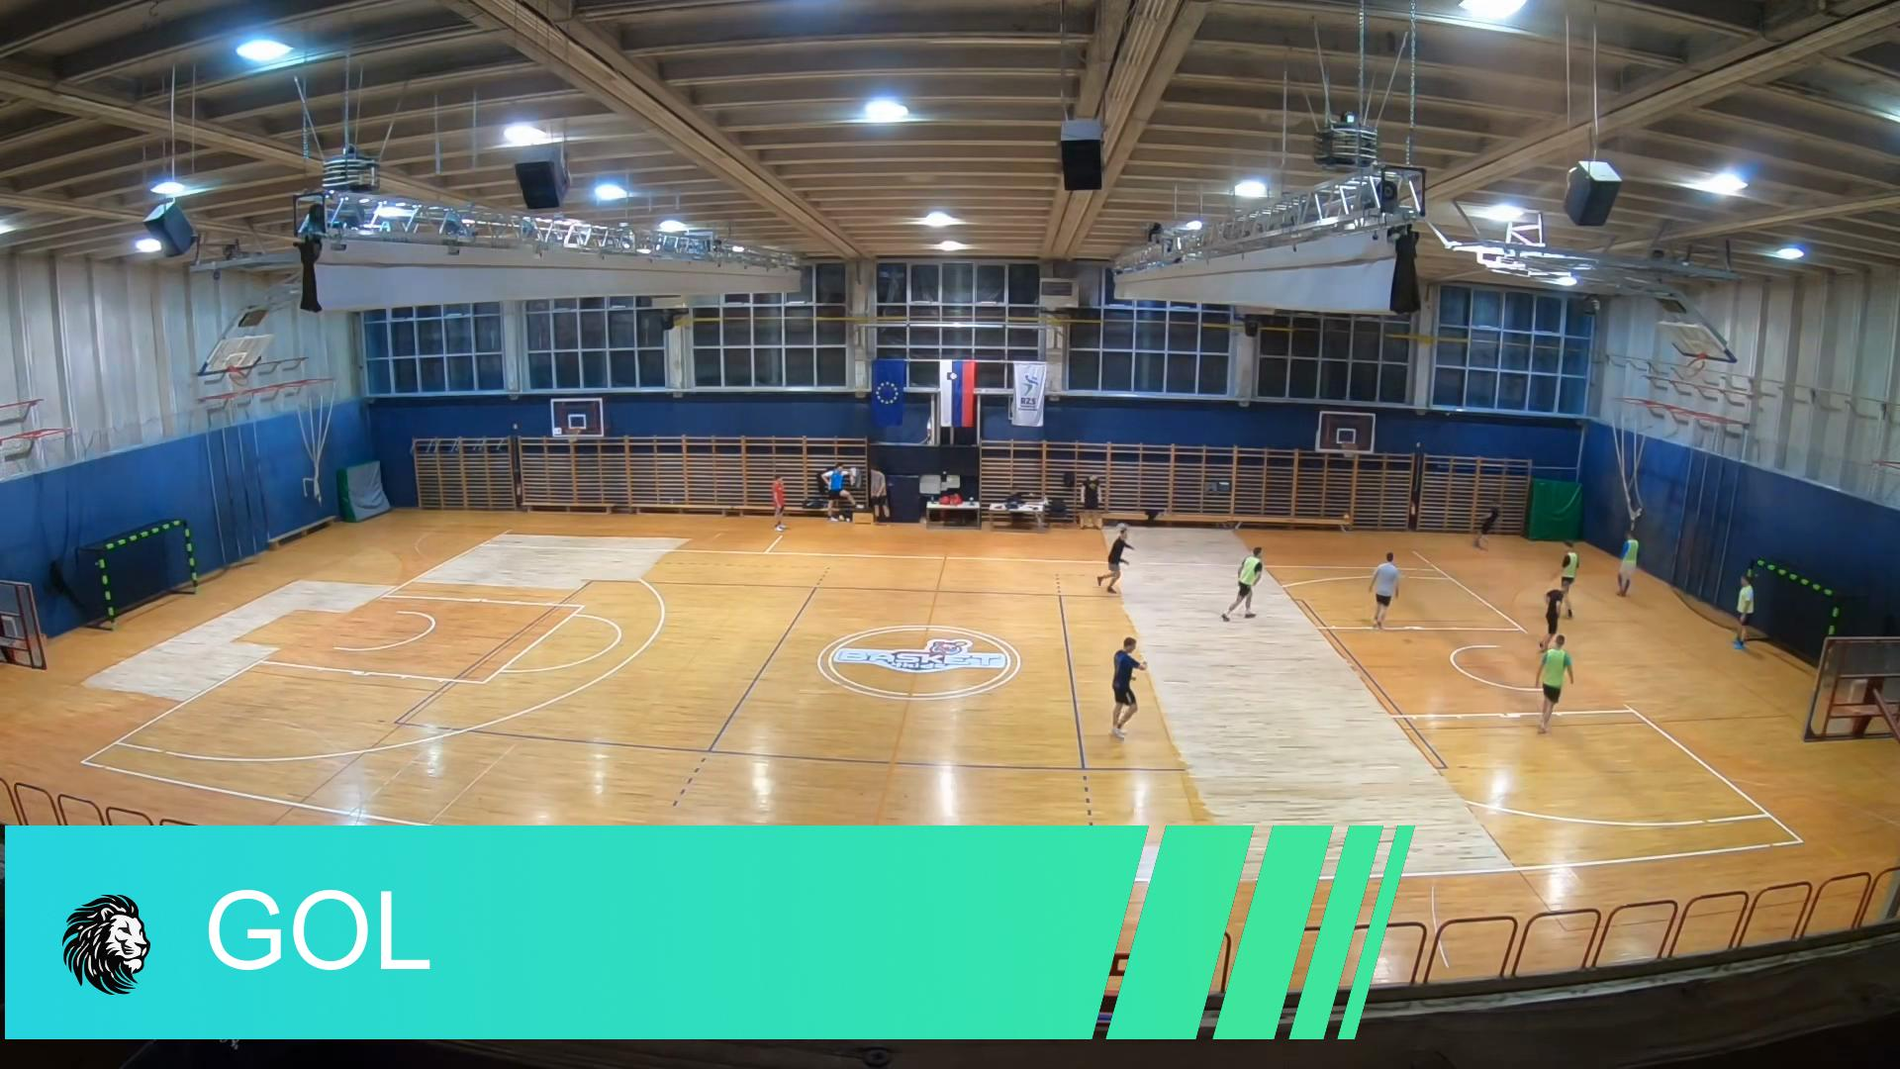
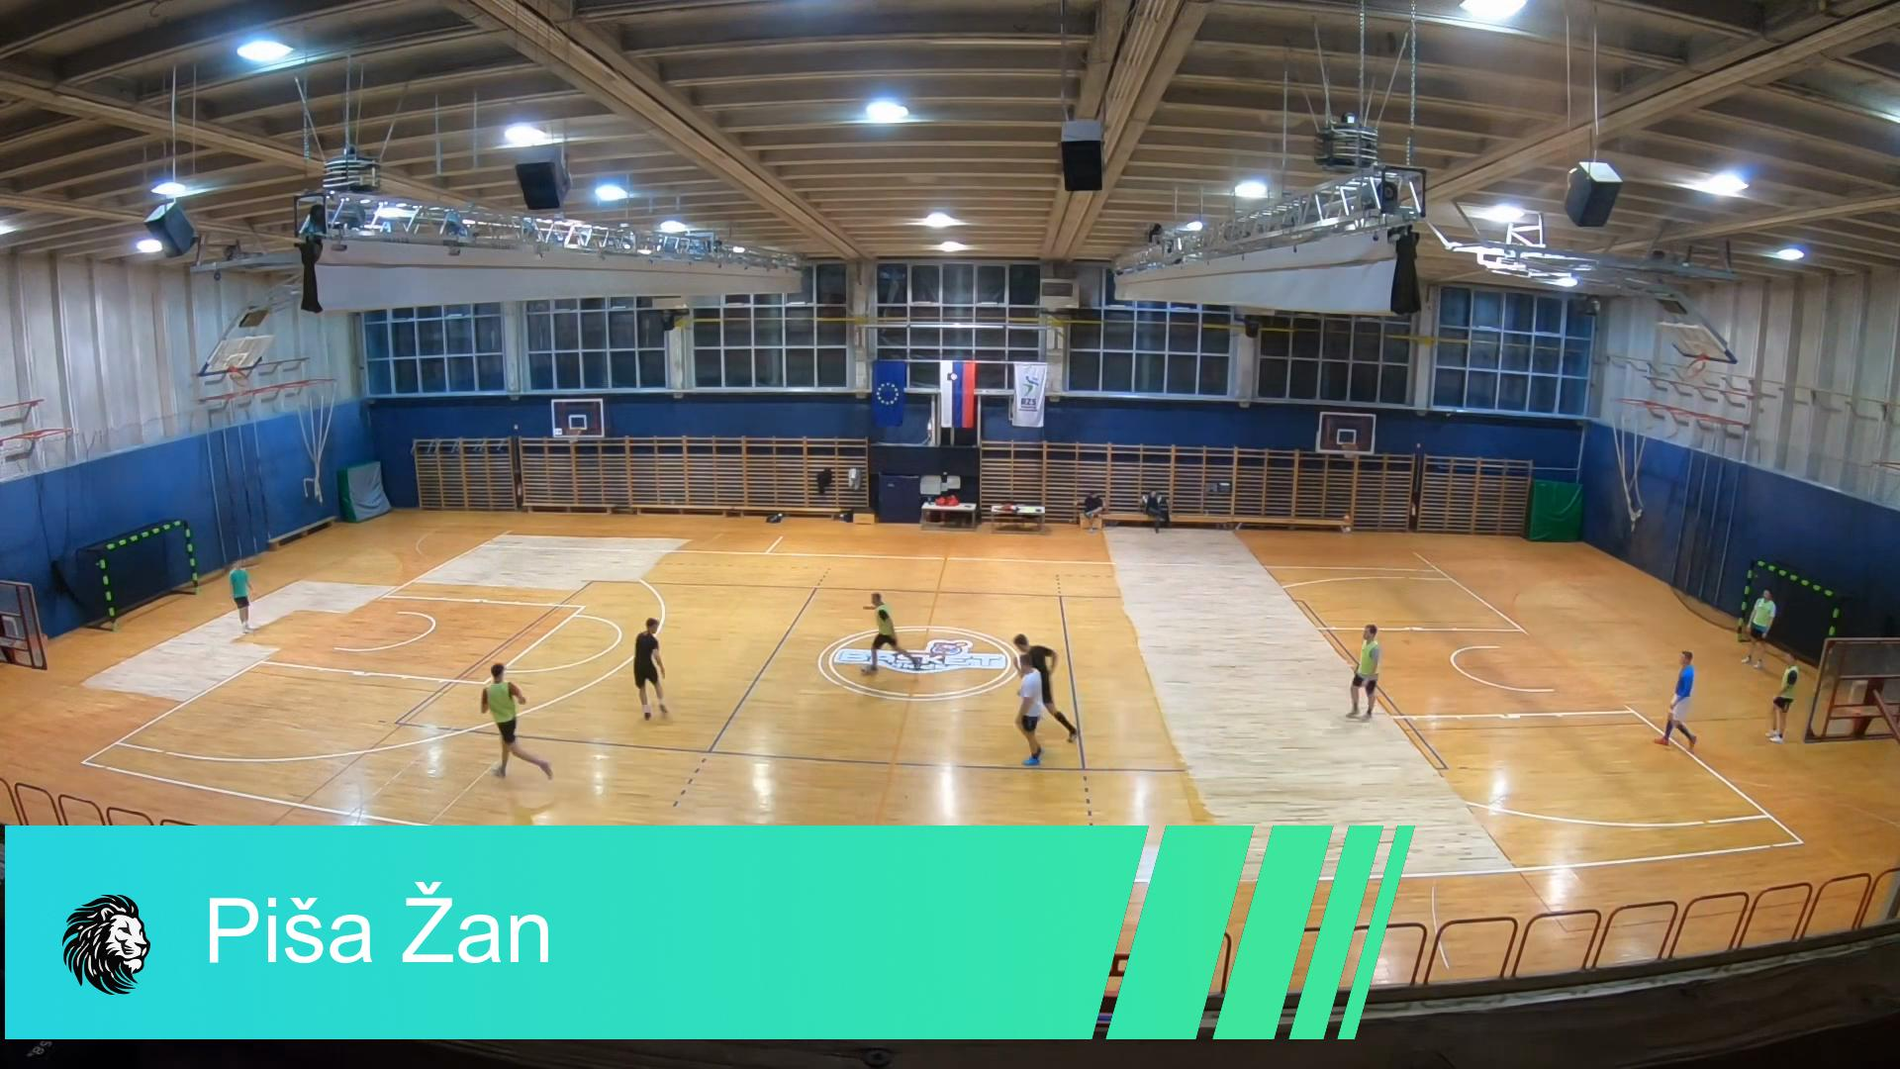
added voice over commentary, background music

diff --git a/main.py b/main.py
@@ -1,19 +1,22 @@
 from moviepy.editor import VideoFileClip, concatenate_videoclips, CompositeVideoClip,concatenate,VideoClip
-from moviepy.editor import TextClip, CompositeVideoClip, ColorClip,ImageClip
+from moviepy.editor import TextClip, CompositeVideoClip, ColorClip,ImageClip,AudioFileClip,CompositeAudioClip
 from PIL import Image
 # Function to create a crossfade transition
-from moviepy.editor import ColorClip, TextClip, CompositeVideoClip
+from moviepy.editor import ColorClip, TextClip, CompositeVideoClip,concatenate_audioclips
 import numpy as np
+from lib.openai import tts
+from moviepy.audio.fx.all import volumex
 
-def wipe_effect(get_frame, t):
-    """ Generates a frame for a wipe effect mask """
+def wipe_effect(get_frame, t, transition_duration):
+    """ Generates a frame for a wipe effect mask using NumPy for efficiency """
     frame = get_frame(t)
-    frame_width, frame_height = frame.shape[1], frame.shape[0]
-    wipe_width = int(frame_width * t / 10)  # Adjust the 10 for speed
-    mask = np.zeros((frame_height, frame_width))
+    frame_width = frame.shape[1]
+    wipe_width = int(frame_width * (t / transition_duration))
+    # Use numpy to create the mask efficiently
+    mask = np.zeros((frame.shape[0], frame.shape[1]))
     mask[:, :wipe_width] = 1
     return mask
-
+    
 def add_premier_league_style_banner(clip, text):
     # Banner settings
     banner_duration = 6
@@ -29,7 +32,7 @@ def add_premier_league_style_banner(clip, text):
     banner_image = ImageClip(banner_image_path, duration=banner_clip_duration)
 
     # Create text clip
-    txt_clip = TextClip(text, fontsize=110, color='white', font='Montserrat-Regular')
+    txt_clip = TextClip(text, fontsize=90, color='white', font='Montserrat-Regular')
     
     # Calculate vertical position for the text
     vertical_center = (banner_height - txt_clip.h) / 2
@@ -66,7 +69,7 @@ def add_premier_league_style_banner(clip, text):
     # Set the duration for the final clip
     return final_clip.set_duration(clip.duration)
 
-def mehe(highlights):
+def make_highlights_reel(highlights):
     file_name = input("Finished highlights video name?\n")
     source_file_name =  "source-video.mp4" #input("Source file name") # 
     # Load your video
@@ -83,26 +86,44 @@ def mehe(highlights):
     # List to hold all the clips
     clips = []
 
-    for highlight in highlights:
+    for index, highlight in enumerate(highlights):
+        text_commentary = highlight["commentary"]
         timestamp = highlight['timestamp']
         name = highlight["name"]
+
+        audio_file_name = f"highlight_{index}"
+        tts(text_commentary, audio_file_name)  # Assuming
+        commentary_audio = AudioFileClip(f"highlights/commentary/{audio_file_name}.mp3")
         start = max(0, timestamp - duration_before)
         end = min(timestamp + duration_after, video.duration)
         clip = video.subclip(start, end)
         overlay_text = name  # Customize your text
         clip_with_banner = add_premier_league_style_banner(clip, overlay_text)
 
-        clips.append(clip_with_banner)
+        # Combine the video clip with the audio commentary
+        clip_with_audio = clip_with_banner.set_audio(commentary_audio)
+        clips.append(clip_with_audio)
     # Adding transitions between clips
     print(f"There are total of {len(clips)} clips")
 
     custom_padding = 2
     final_clips = [clips[0]]
-
-    # Loop through the remaining clips, adding each with a crossfade
     for clip in clips[1:]:
-        final_clips.append(clip.crossfadein(custom_padding))
+        final_clips.append(clip.crossfadein(3))
     final_video = concatenate_videoclips(final_clips, padding=-custom_padding, method="chain")
+
+    final_video_duration = final_video.duration
+
+    background_audio = AudioFileClip("assets/stadion-sound.mp3")
+    loop_count = int(final_video_duration / background_audio.duration) + 1
+    
+    background_audio = background_audio.fx(volumex, 0.15)
+    
+    extended_background_audio = concatenate_audioclips([background_audio] * loop_count)
+    extended_background_audio = extended_background_audio.set_duration(final_video_duration)
+
+    final_audio = CompositeAudioClip([final_video.audio, extended_background_audio])
+    final_video = final_video.set_audio(final_audio)
 
     # Write the result to a file
     final_video.write_videofile(
@@ -113,47 +134,51 @@ def mehe(highlights):
                     '-acodec', 'aac', '-b:a', '128k']
     )
 
-
 timestamps = [
-    {'timestamp': 318, 'name': 'Tekma I'},
-    {'timestamp': 612, 'name': 'PRILOŽNOST'},
-    {'timestamp': 775, 'name': 'GOL'},
-    # {'timestamp': 860, 'name': 'Tekma II'},
-    # {'timestamp': 1365, 'name': 'Tekma III'},
-    # {'timestamp': 1581, 'name': 'PRILOŽNOST'},
-    # {'timestamp': 1665, 'name': 'GOL'},
-    # {'timestamp': 1788, 'name': 'GOL (Mark)'},
-    # {'timestamp': 1880, 'name': 'Tekma IV'},
-    # {'timestamp': 2265, 'name': 'GOL (Tim)'},
-    # {'timestamp': 2325, 'name': 'GOL (Aleks...)'},
-    # {'timestamp': 2350, 'name': 'PRILOŽNOST'},
-    # {'timestamp': 2355, 'name': 'PRILOŽNOST'},
-    # {'timestamp': 2414, 'name': 'Tekma V'},
-    # {'timestamp': 2503, 'name': 'Izbijanje NM'},
-    # {'timestamp': 2780, 'name': 'GREAT GOL'},
-    # {'timestamp': 2930, 'name': 'Tekma VI'},
-    # {'timestamp': 3103, 'name': 'GOL'},
-    # {'timestamp': 3310, 'name': 'POŠKODBA'},
-    # {'timestamp': 3398, 'name': 'GOL'},
-    # {'timestamp': 3459, 'name': 'Tekma VII'},
-    # {'timestamp': 3545, 'name': 'GOL (Filip)'},
-    # {'timestamp': 3723, 'name': 'PRILOŽNOST'},
-    # {'timestamp': 3735, 'name': 'GOL'},
-    # {'timestamp': 3881, 'name': 'GOL'},
-    # {'timestamp': 4006, 'name': 'Tekma VIII'},
-    # {'timestamp': 4409, 'name': 'Piša Matic'},
-    # {'timestamp': 4528, 'name': 'GOL'},
-    # {'timestamp': 4570, 'name': 'Tekma IX'},
-    # {'timestamp': 4668, 'name': 'PODAJA'},
-    # {'timestamp': 4690, 'name': '"Faul" nad Žetkotom'},
-    # {'timestamp': 4855, 'name': 'GOL'},
-    # {'timestamp': 4928, 'name': 'GOL'},
-    # {'timestamp': 5055, 'name': 'GOL'},
-    # {'timestamp': 5250, 'name': 'Tekma X'},
-    # {'timestamp': 5812, 'name': 'Piša Žan'}
-    ]
-
+    {'timestamp': 318, 'name': 'Tekma I', 'commentary': "Welcome to today's match between Team A and Team B! The atmosphere is electric as we kick off this exciting encounter."},
+    {'timestamp': 615, 'name': 'PRILOŽNOST', 'commentary': "Here comes Žan, with a spectacular dribble across the entire court! Just couldn't find the finish."},
+    {'timestamp': 775, 'name': 'GOL', 'commentary': "Goal in the dying moments for Team B! Hamzo finds the net, securing a win in a dramatic fashion. What a climax to this game!"},
+    {'timestamp': 860, 'name': 'Tekma II', 'commentary': "And we're onto the next game, with Team B carrying their momentum against Team C. Let's see how this unfolds."},
+    {'timestamp': 1365, 'name': 'Tekma III', 'commentary': "The third game begins with Team A looking to bounce back against Team C. The stakes are high!"},
+    {'timestamp': 1583, 'name': 'PRILOŽNOST', 'commentary': "Matija makes a daring dribble into the corner. He passes to Aleksander... Oh, but the finish is just not there!"},
+    {'timestamp': 1665, 'name': 'GOL', 'commentary': "Team C scores a beautifully worked goal! Tazzo with the finish and Nick with the assist. That's textbook teamwork!"},
+    {'timestamp': 1788, 'name': 'GOL', 'commentary': "Mark for Team A responds with a goal after incredible dribbling by Matija. This match is full of twists!"},
+    {'timestamp': 1880, 'name': 'Tekma IV', 'commentary': "The second encounter between Team A and Team B begins. The rivalry intensifies!"},
+    {'timestamp': 2265, 'name': 'GOL', 'commentary': "Tim scores for Team A after a deflection. Sometimes, luck is all you need!"},
+    {'timestamp': 2325, 'name': 'GOL', 'commentary': "Aleksander with a cool finish for Team A, following a splitting pass from Matija. These guys are on fire!"},
+    {'timestamp': 2350, 'name': 'PRILOŽNOST', 'commentary': "A 4v1 chance for Team A, but they can't capitalize! Such moments can turn games, and they've missed it."},
+    {'timestamp': 2414, 'name': 'Tekma V', 'commentary': "We're now into the second encounter between Team B and Team C. The competition is heating up!"},
+    {'timestamp': 2503, 'name': 'Izbijanje NM', 'commentary': "A crucial clearance by Nick, denying Argentim a scoring opportunity. That was close!"},
+    {'timestamp': 2780, 'name': 'GREAT GOL', 'commentary': "What a phenomenal volley by Matic for Team B! Žetko had no chance. The crowd goes wild!"},
+    {'timestamp': 2930, 'name': 'Tekma VI', 'commentary': "Team A faces off against Team C in the next match. The energy is palpable!"},
+    {'timestamp': 3103, 'name': 'GOL', 'commentary': "Aleksander finishes a brilliant chance for Team A, with Mark assisting. Their teamwork is impeccable!"},
+    {'timestamp': 3310, 'name': 'POŠKODBA', 'commentary': "A pause as Davor from Team C is injured. We hope it's not too serious. The game takes a brief halt."},
+    {'timestamp': 3398, 'name': 'GOL', 'commentary': "Nick executes a beautiful volley off the crossbar for Team B, assisted by Žetko. What a goal!"},
+    {'timestamp': 3459, 'name': 'Tekma VII', 'commentary': "Team B and Team A are back at it. The rivalry is intense, and the fans are fully engaged."},
+    {'timestamp': 3471, 'name': 'PRILOŽNOST', 'commentary': "Matija intercepts in the midfield but fails to convert. These missed opportunities might haunt them later."},
+    {'timestamp': 3545, 'name': 'GOL', 'commentary': "Filip scores for Team A after a deflection, with Aleksander providing some brilliant dribbling on the left."},
+    {'timestamp': 3723, 'name': 'PRILOŽNOST', 'commentary': "Matija again in the action, but his pass to Filip isn't on target. Team A needs to capitalize on these moments."},
+    {'timestamp': 3735, 'name': 'GOL', 'commentary': "Hamzo scores from a tough angle for Team B! They're showing resilience and skill in equal measure."},
+    {'timestamp': 3881, 'name': 'GOL', 'commentary': "Team A's Matija scores uncontested after a well-worked set-piece, assisted by Filip. They're back in it!"},
+    {'timestamp': 4006, 'name': 'Tekma VIII', 'commentary': "And we're off with Team B and Team C again. The pace has not dropped one bit."},
+    {'timestamp': 4409, 'name': 'Nice Dribbling', 'commentary': "Matic shows off his skills with some fine dribbling, getting the ball through the legs. The crowd appreciates the flair!"},
+    {'timestamp': 4528, 'name': 'GOL', 'commentary': "Argentim intercepts a pass from Samuel and scores a perfect lob for Team C. What a way to seize the moment!"},
+    {'timestamp': 4810, 'name': 'Tekma IX', 'commentary': "We're into the next match with Team A and Team C. The intensity is not letting up."},
+    {'timestamp': 5268, 'name': 'PODAJA', 'commentary': "A great pass from Matija, but Mark is just unlucky not to score."},
+    {'timestamp': 4690, 'name': 'Faul nad Žetkotom', 'commentary': "High tension here! Team C calls for a foul, but VAR shows Matija was first. Play continues with foul."},
+    {'timestamp': 4828, 'name': 'PODAJA', 'commentary': "Erik delivers a nice pass, but Argentim can't capitalize. Team C needs to make these chances count."},
+    {'timestamp': 4855, 'name': 'GOL', 'commentary': "Argentim, for Team C, finds the net after a pass from Tazzo. Teamwork makes the dream work!"},
+    {'timestamp': 4928, 'name': 'GOL', 'commentary': "Team A fights back! Žan carries the ball, Mark finds Aleksander, who converts. They're not giving up!"},
+    {'timestamp': 5055, 'name': 'GOL', 'commentary': "Argentim seals the win for Team C with another top-corner goal from a corner. They're asserting dominance!"},
+    {'timestamp': 5250, 'name': 'Tekma X', 'commentary': "We're into the last game of the day, Team A versus Team C. It's been a rollercoaster of a match!"},
+    {'timestamp': 5305, 'name': 'GOL', 'commentary': "Žetko for Team A scores after some nice passing with Kristjan. Beautiful teamwork on display!"},
+    {'timestamp': 5334, 'name': 'PRILOŽNOST', 'commentary': "A chance to equalize for Team A! Filip finds himself clear, but the shot isn't accurate enough."},
+    {'timestamp': 5709, 'name': 'GOL', 'commentary': "Team C scores a goal from a counterattack! Argentim scores 1v1 after a pass from Hamzo. Clinical finish!"},
+    {'timestamp': 5725, 'name': 'Žan Scores', 'commentary': "Žan for Team A responds with a fantastic solo run and goal. What a response!"},
+    {'timestamp': 5812, 'name': 'Piša Žan', 'commentary': "And in a delightful display of skill, Žan gets the ball through legs with some nice dribbling. The fans are loving it!"}
+]
 
 
 if __name__ == "__main__":
-    mehe(timestamps)
+    make_highlights_reel(timestamps)
+    # tts("Hello how are you today","asdas")

diff --git a/conver_timestmaps.py b/conver_timestmaps.py
@@ -1,42 +1,47 @@
 timestamps = [
-    "5:18 — Tekma I",
-    "10:12 — PRILOŽNOST",
-    "12:55 — GOL",
-    "14:20 — Tekma II",
-    "22:45 — Tekma III",
-    "26:21 — PRILOŽNOST",
-    "27:45 — GOL",
-    "29:48 — GOL (Mark)",
-    "31:20 — Tekma IV",
-    "37:45 — GOL (Tim)",
-    "38:45 — GOL (Aleks...)",
-    "39:10 — PRILOŽNOST",
-    "39:15 — PRILOŽNOST",
-    "40:14 — Tekma V",
-    "41:43 — Izbijanje NM",
-    "46:20 — GREAT GOL",
-    "48:50 — Tekma VI",
-    "51:43 — GOL",
-    "55:10 — POŠKODBA",
-    "56:38 — GOL",
-    "57:39 — Tekma VII",
-    "59:05 — GOL (Filip)",
-    "1:02:03 — PRILOŽNOST",
-    "1:02:15 — GOL",
-    "1:04:41 — GOL",
-    "1:06:46 — Tekma VIII",
-    "1:13:29 — Piša Matic",
-    "1:15:28 — GOL",
-    "1:16:10 — Tekma IX",
-    "1:17:48 — PODAJA",
-    "1:18:10 — \"Faul\" nad Žetkotom",
-    "1:20:28 - PODAJA",
-    "1:20:55 — GOL",
-    "1:22:08 — GOL",
-    "1:24:15 — GOL",
-    "1:27:30 — Tekma X",
-    "1:36:52 — Piša Žan"
+    '5:18 — Tekma I, Team A vs Team B: "Welcome to today\'s match between Team A and Team B! The atmosphere is electric as we kick off this exciting encounter."',
+    '10:15 — PRILOŽNOST: "Here comes Žan, with a spectacular dribble across the entire court! He\'s running out of energy, but what a run that was! Just couldn\'t find the finish."',
+    '12:55 — GOL: "Goal in the dying moments for Team B! Hamzo finds the net, securing a win in a dramatic fashion. What a climax to this game!"',
+    '14:20 — Tekma II, Team B vs Team C: "And we\'re onto the next game, with Team B carrying their momentum against Team C. Let\'s see how this unfolds."',
+    '22:45 — Tekma III, Team A vs Team C: "The third game begins with Team A looking to bounce back against Team C. The stakes are high!"',
+    '26:23 — PRILOŽNOST: "Matija makes a daring dribble into the corner. He passes to Aleksander... Oh, but the finish is just not there!"',
+    '27:45 — GOL: "Team C scores a beautifully worked goal! Tazzo with the finish and Nick with the assist. That\'s textbook teamwork!"',
+    '29:48 — GOL: "Mark for Team A responds with a goal after incredible dribbling by Matija. This match is full of twists!"',
+    '31:20 — Tekma IV, Team A vs Team B: "The second encounter between Team A and Team B begins. The rivalry intensifies!"',
+    '37:45 — GOL (Tim): "Tim scores for Team A after a deflection. Sometimes, luck is all you need!"',
+    '38:45 — GOL (Aleksander): "Aleksander with a cool finish for Team A, following a splitting pass from Matija. These guys are on fire!"',
+    '39:10 — PRILOŽNOST: "A 4v1 chance for Team A, but they can\'t capitalize! Such moments can turn games, and they\'ve missed it."',
+    '40:14 — Tekma V, Team B vs Team C: "We\'re now into the second encounter between Team B and Team C. The competition is heating up!"',
+    '41:43 — Izbijanje NM: "A crucial clearance by Nick, denying Argentim a scoring opportunity. That was close!"',
+    '46:20 — GREAT GOL: "What a phenomenal volley by Matic for Team B! Žetko had no chance. The crowd goes wild!"',
+    '48:50 — Tekma VI, Team A vs Team C: "Team A faces off against Team C in the next match. The energy is palpable!"',
+    '51:43 — GOL: "Aleksander finishes a brilliant chance for Team A, with Mark assisting. Their teamwork is impeccable!"',
+    '55:10 — POŠKODBA: "A pause as Davor from Team C is injured. We hope it\'s not too serious. The game takes a brief halt."',
+    '56:38 — GOL: "Nick executes a beautiful volley off the crossbar for Team B, assisted by Žetko. What a goal!"',
+    '57:39 — Tekma VII, Team B vs Team A: "Team B and Team A are back at it. The rivalry is intense, and the fans are fully engaged."',
+    '57:51 — PRILOŽNOST: "Matija intercepts in the midfield but fails to convert. These missed opportunities might haunt them later."',
+    '59:05 — GOL (Filip): "Filip scores for Team A after a deflection, with Aleksander providing some brilliant dribbling on the left. Luck is on their side!"',
+    '1:02:03 — PRILOŽNOST: "Matija again in the action, but his pass to Filip isn\'t on target. Team A needs to capitalize on these moments."',
+    '1:02:15 — GOL: "Hamzo scores from a tough angle for Team B! They\'re showing resilience and skill in equal measure."',
+    '1:04:41 — GOL: "Team A\'s Matija scores uncontested after a well-worked set-piece, assisted by Filip. They\'re back in it!"',
+    '1:06:46 — Tekma VIII, Team B vs Team C: "And we\'re off with Team B and Team C again. The pace has not dropped one bit."',
+    '1:13:29 — Nice Dribbling: "Matic shows off his skills with some fine dribbling, getting the ball through the legs. The crowd appreciates the flair!"',
+    '1:15:28 — GOL: "Argentim intercepts a pass from Samuel and scores a perfect lob for Team C. What a way to seize the moment!"',
+    '1:16:10 — Tekma IX, Team A vs Team C: "We\'re into the next match with Team A and Team C. The intensity is not letting up."',
+    '1:17:48 — PODAJA: "A great pass from Matija, but Mark is just unlucky not to score. The precision was there, but not the luck."',
+    '1:18:10 — "Faul" nad Žetkotom: "High tension here! Team C calls for a foul, but VAR shows Matija was first. Play continues with no foul."',
+    '1:20:28 - PODAJA: "Erik delivers a nice pass, but Argentim can\'t capitalize. Team C needs to make these chances count."',
+    '1:20:55 — GOL: "Argentim, for Team C, finds the net after a pass from Tazzo. Teamwork makes the dream work!"',
+    '1:22:08 — GOL: "Team A fights back! Žan carries the ball, Mark finds Aleksander, who converts. They\'re not giving up!"',
+    '1:24:15 — GOL: "Argentim seals the win for Team C with another top-corner goal from a corner. They\'re asserting dominance!"',
+    '1:27:30 — Tekma X, Last Game, Team A vs Team C: "We\'re into the last game of the day, Team A versus Team C. It\'s been a rollercoaster of a match!"',
+    '1:28:25 — GOL: "Žetko for Team A scores after some nice passing with Kristjan. Beautiful teamwork on display!"',
+    '1:28:54 — PRILOŽNOST: "A chance to equalize for Team A! Filip finds himself clear, but the shot isn\'t accurate enough."',
+    '1:35:09 — GOL: "Team C scores a goal from a counterattack! Argentim scores 1v1 after a pass from Hamzo. Clinical finish!"',
+    '1:35:25 — Žan Scores: "Žan for Team A responds with a fantastic solo run and goal. What a response!"',
+    '1:36:52 — Piša Žan: "And in a delightful display of skill, Žan gets the ball through legs with some nice dribbling. The fans are loving it!"'
 ]
+
 
 def convert_to_seconds(timestamp):
     parts = timestamp.split(':')

diff --git a/lib/vertexai.py b/lib/vertexai.py
@@ -1,0 +1,34 @@
+# import os
+
+# import vertexai
+# from google.cloud import aiplatform
+# from vertexai.generative_models import GenerativeModel, Part
+# from google.api_core.client_options import ClientOptions
+# from google.cloud.speech_v2 import SpeechClient
+# from google.cloud.speech_v2.types import cloud_speech
+# import requests
+# import io,os
+# from google.cloud.speech_v2.types import ExplicitDecodingConfig
+
+# GCP_PROJECT_ID=os.environ.get("GCP_PROJECT_ID")
+# GCP_LOCATION=os.environ.get("GCP_LOCATION")
+
+# # https://cloud.google.com/vertex-ai/docs/generative-ai/start/quickstarts/quickstart-multimodal
+# # https://gemini.google.com/app/91688c92f95b27d5
+# def generate_with_bard(prompt:str, text=None,tokens=256)->str:
+#     try:
+#         vertexai.init(project=GCP_PROJECT_ID, location=GCP_LOCATION)
+#            # Load the model
+#         multimodal_model = GenerativeModel("gemini-1.0-pro")
+#         # Query the model
+#         response = multimodal_model.generate_content(
+#             stream=False,
+#             generation_config={
+#                  "temperature": 0.0,
+#             },
+#             contents=f"{prompt} {text}" if text else prompt,
+#         )
+#         return response.text
+#     except Exception as e:
+#         raise Exception("Gemini has failed to generate text",e) from e
+

diff --git a/lib/openai.py b/lib/openai.py
@@ -1,0 +1,22 @@
+from pathlib import Path
+from openai import OpenAI
+import os
+client = OpenAI(api_key=os.environ.get("OPENAI_API_KEY"))
+
+def tts(text, file_name):
+    # Ensure the highlights/commentary directory exists
+    base_path = Path(__file__).parent.parent / "highlights/commentary"
+    base_path.mkdir(parents=True, exist_ok=True)
+
+    # Set the path for the AAC file
+    speech_file_path = base_path / f"{file_name}.mp3"
+
+    # Generate the speech
+    response = client.audio.speech.create(
+        model="tts-1",
+        voice="echo",  # Change to "oxyn" voice
+        input=text
+    )
+
+    # Stream and save the audio in AAC format
+    response.stream_to_file(speech_file_path)
